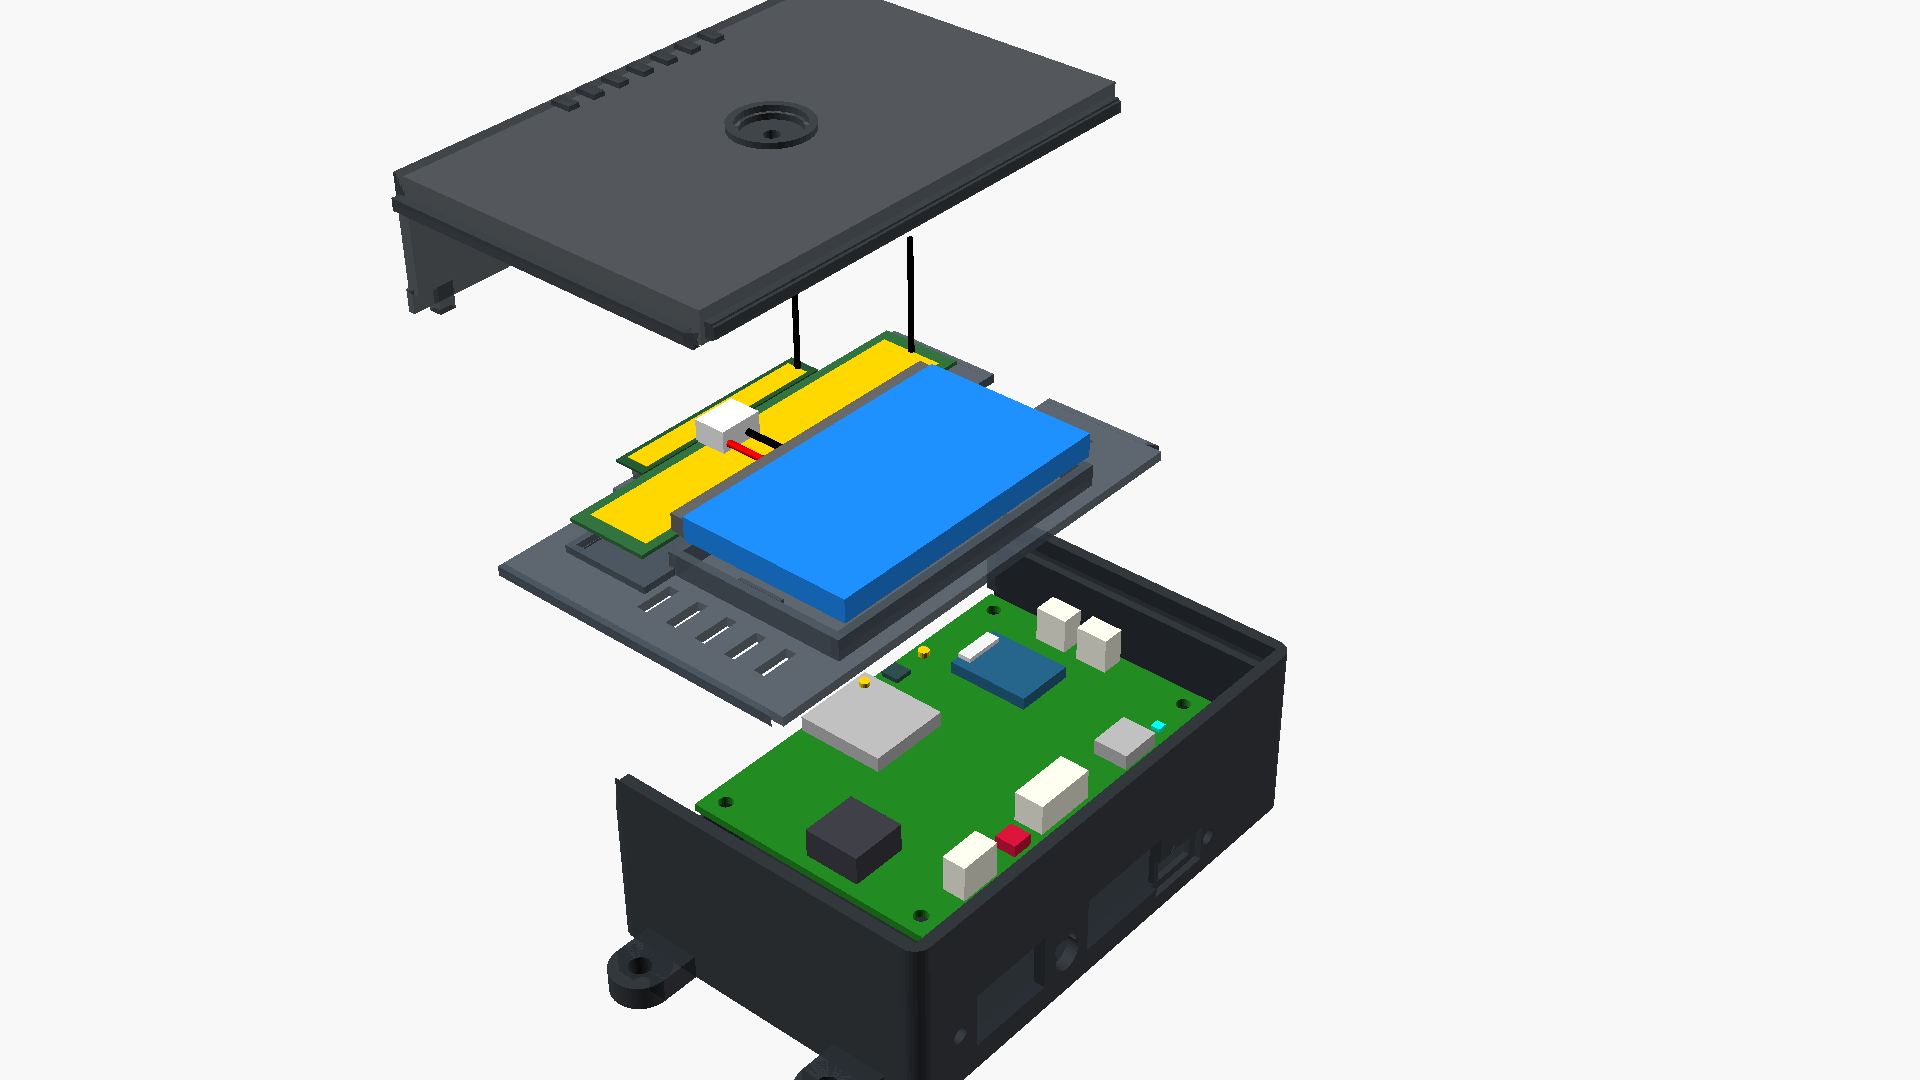
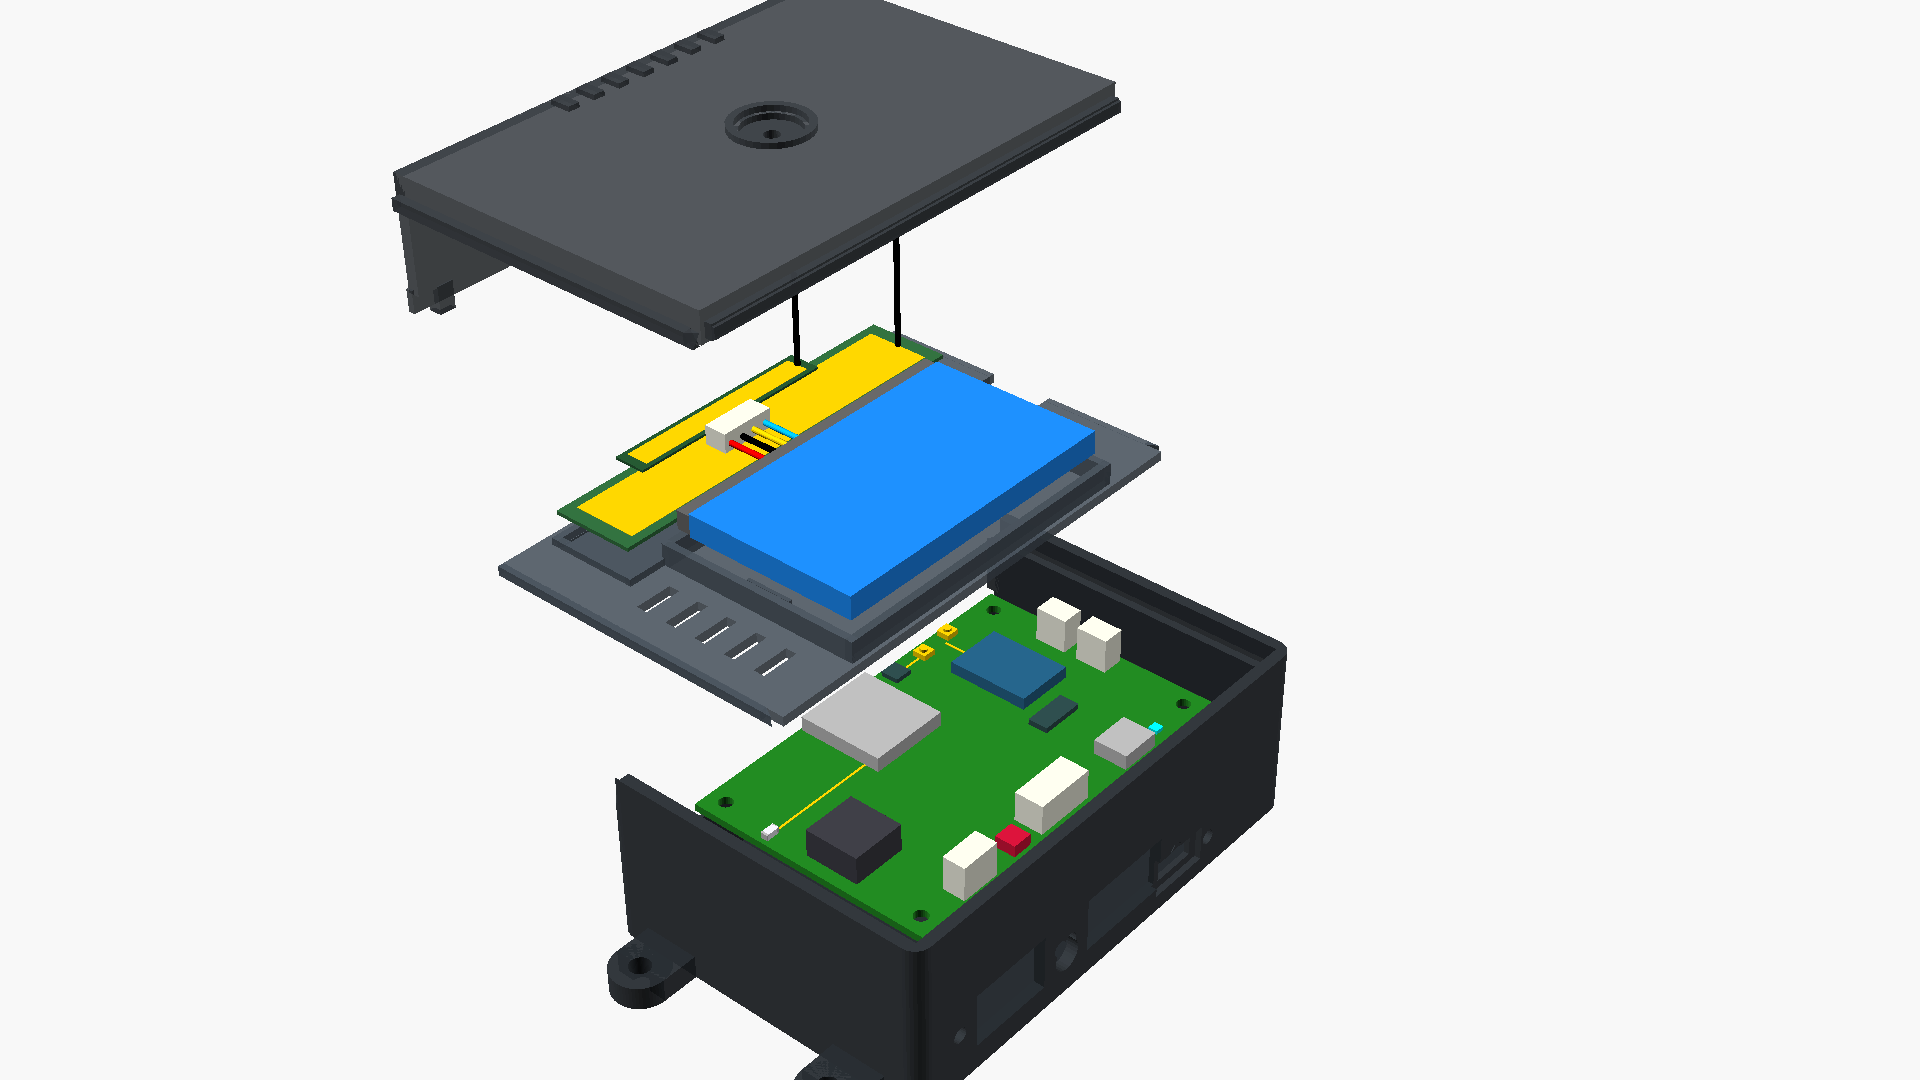
fix(cad): synchronize Central Box PCB dummy and Abbildung 8.2 with triple-antenna topology

diff --git a/docs/de/08_enclosures_mechanics_cad.md b/docs/de/08_enclosures_mechanics_cad.md
@@ -70,7 +70,7 @@ Das Gehäuse der Zentralbox ist als ultravibrationsfestes IP67/IP69K-Gehäuse au
 
 ![OpenMotorBridge Zentralbox Exploded 3D CAD Fitting](../images/cad/main_box_full_assembly_exploded_3d.png)
 
-*Abbildung 8.2: 1:1:1 euklidische CAD-Explosionsdarstellung der Zentralbox entlang der vertikalen Z-Achse. Sichtbar sind: Monocoque-Wanne mit integrierten Domen und Stirnwandports, bestückte PCBA 01 v10 (ESP32-S31, QCC3084, SX1262 LoRa), einschiebbarer Zwischenboden mit LiPo-Akkubett und Taoglas Dual-Antennen sowie der L-Schiebedeckel mit Gore-Membran und integrierter Heckwand.*
+*Abbildung 8.2: 1:1:1 euklidische CAD-Explosionsdarstellung der Zentralbox entlang der vertikalen Z-Achse. Sichtbar sind: Monocoque-Wanne mit integrierten Domen und Stirnwandports, bestückte PCBA 01 v10 (ESP32-S31 mit On-Board Johanson Keramikantenne ANT3, QCC3084 mit ANT2 U.FL Port, SX1262 LoRa mit ANT1 U.FL Port, U12 Quad Power Switch), einschiebbarer Zwischenboden mit LiPo-Akkubett und Taoglas Dual-Flexantennen (LoRa 868 MHz & Helmet Audio) sowie der L-Schiebedeckel mit Gore-Membran und integrierter Heckwand.*
 
 ### 1.3 3D-Röntgenansicht & Zusammenbau-Fitting
 

diff --git a/docs/en/08_enclosures_mechanics_cad.md b/docs/en/08_enclosures_mechanics_cad.md
@@ -67,7 +67,7 @@ The Central Box enclosure is engineered in **PA12 (HP Multi Jet Fusion)** for ha
 
 ![OpenMotorBridge Central Box Exploded 3D CAD Fitting](../images/cad/main_box_full_assembly_exploded_3d.png)
 
-*Figure 8.2: 1:1:1 Euclidean CAD exploded view of the Central Box along the vertical Z-axis. Shown: Monocoque tub with integrated standoffs and front ports, populated PCBA 01 v10 (ESP32-S31, QCC3084, SX1262 LoRa), slide-in intermediate tray with LiPo battery and Taoglas dual antennas, and L-Slide Lid with Gore vent and integrated Heckwand.*
+*Figure 8.2: 1:1:1 Euclidean CAD exploded view of the Central Box along the vertical Z-axis. Shown: Monocoque tub with integrated standoffs and front ports, populated PCBA 01 v10 (ESP32-S31 with on-board Johanson ceramic chip antenna ANT3, QCC3084 with ANT2 U.FL port, SX1262 LoRa with ANT1 U.FL port, U12 Quad Power Switch), slide-in intermediate tray with LiPo battery and Taoglas dual flex antennas (LoRa 868 MHz & Helmet Audio), and L-Slide Lid with Gore vent and integrated Heckwand.*
 
 ### 1.3 3D X-Ray Assembly & Component Clearance
 
